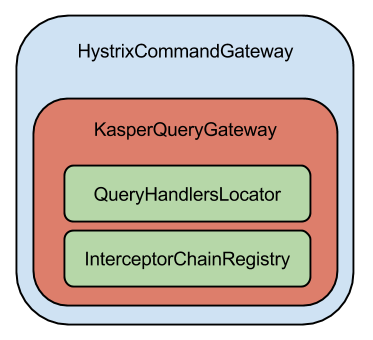
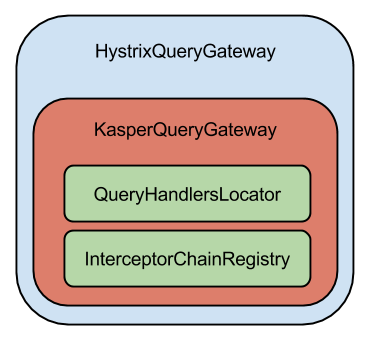
update doc

Changed region(s): [[0.2064, 0.1176, 0.7962, 0.1765]]

diff --git a/kasper-core/doc/hystrix.md b/kasper-core/doc/hystrix.md
@@ -11,29 +11,20 @@ Example:
 
 ![hystrix command gateway](img/hystrix-command-gateway.png)
 
-_KasperCommandGateway.java_ :
-
-    final CommandGateway commandGateway = checkNotNull(commandGatewayFactoryBean.getObject()); // retrieve axon proxy
-    
-    // if hystrixEnable=true (system property)
-    if (HystrixGateway.isActivated()) {
-        this.commandGateway = new HystrixCommandGateway(commandGateway);
-    } else {
-        this.commandGateway = commandGateway;
-    }
-
 ## On query side
 
 ![hystrix query gateway](img/hystrix-query-gateway.png)
 
+## Activation in Kasper platform
 
 _KasperPlatformConfiguration.java_: 
 
-    // if hystrixEnable=true (system property)
     if (HystrixGateway.isActivated()) {
-        this.queryGateway =  new HystrixQueryGateway(new KasperQueryGateway());
+        this.queryGateway =  new HystrixQueryGateway(new KasperQueryGateway(), metricRegistry);
+        this.commandGateway = new HystrixCommandGateway(new KasperCommandGateway(commandBus), metricRegistry);
     } else {
         this.queryGateway = new KasperQueryGateway();
+        this.commandGateway = new KasperCommandGateway(commandBus);
     }
 
 ## Class diagram
